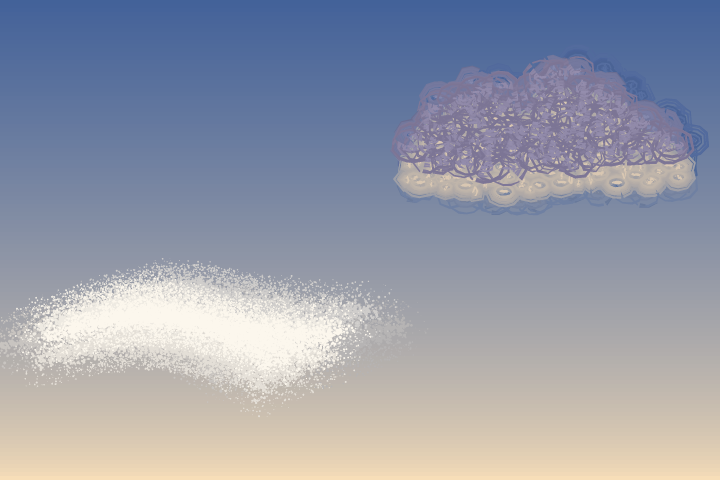
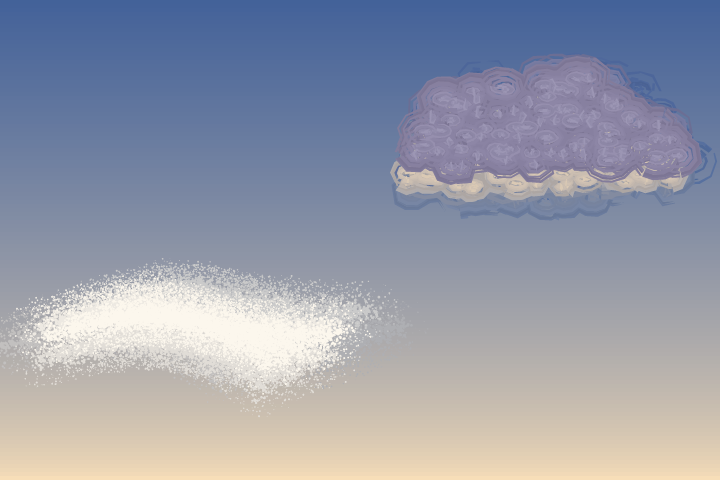
docs: cookbook review fixes: CPU trim, gs recipe, naming, /At at the cloud's middle (#186)

diff --git a/docs/guides/landscape-cookbook.md b/docs/guides/landscape-cookbook.md
@@ -12,14 +12,14 @@ Every snippet is complete and sized for a 360 by 240 pt page. From the repo root
 pscat --page 360x240 --dpi 144 --png out.png recipe.ps
 ```
 
-`--png` (or `--headless`) is required, or pscat opens a window and waits. `--dpi 144` renders at twice the size: fine spray and bristles need it to read as vapour rather than static, and the thumbnails below are made that way (`pscat --page 360x240 --dpi 144`). Then **look at the PNG**. Run it again with `--lint` once it draws, which catches a blank page, an unbalanced `gsave` and stack leaks that a good-looking picture can hide.
+`--png` (or `--headless`) is required, or pscat opens a window and waits. `--dpi 144` renders at twice the size: fine spray and bristles need it to read as vapour rather than static, and the thumbnails below are made that way (`pscat --page 360x240 --dpi 144`). Then **look at the PNG**. Run it again with `--lint` once it draws, which catches a blank page, an unbalanced `gsave` and stack leaks that a good-looking picture can hide. A clean lint does not mean the program ran clean, though: watch stderr for a `%%[ Error: ...` line, because a recipe that died halfway still prints a picture.
 
 The snippets share a few habits. They are worth copying.
 
 - **Seed first**: `N srand` after the library loads. Every mark draws from the random stream, so the same seed paints the same picture and a changed number moves only what comes after it.
 - **Prefix your own names** (`wt_y`, `mt_px`). Paintkit's presets redefine their own `pk-`, `pn-`, `pb-`, `pz-`, `po-`, `pq-`, `pd-` names on every call, and so does artkit, so a scratch name that collides is overwritten in the middle of a painting.
 - **Colours are `r g b` on the stack, `[r g b]` in a dict.** `mix3` (`[a] [b] t mix3` gives `r g b`) and `shade` (`[a] k shade` gives `r g b`) return three numbers, so `setrgbcolor` takes them directly and a `/Colors` entry wraps them: `[ [ c 1.03 shade ] ... ]`. The presets paint in the colour you set; there is no colour key outside `/Colors`.
-- **Stay out of `setalpha`.** Nothing here uses it, so the same file renders under Ghostscript with only its random stream differing.
+- **Stay out of `setalpha`.** Nothing here uses it, so the same snippet renders under Ghostscript, with only its random stream differing and no antialiasing (fine spray comes out heavier). The snippets end without `showpage`, because pscat paints its page at exit, so ask gs for one: `gs -q -dNOSAFER -dBATCH -dNOPAUSE -sDEVICE=png16m -g360x240 -r72 -sOutputFile=out.png recipe.ps -c showpage` (`-dNOSAFER` because the snippet reads `lib/`). All eleven were checked this way.
 
 ## Colour: a palette that mixes like paint
 
@@ -138,7 +138,7 @@ Two kinds. **Vapour** is spray, soft all through; use it for haze and wispy cirr
   } for }
   % /Under is the colour behind the mark: a procedure x y -> r g b, asked
   % where the cloud sits (/At), so the rim matches the graded sky.
-  << /Soft 1 /Offset 30 /At [ cl_x cl_y ] /Under { exch pop skyat } >> pkwet
+  << /Soft 1 /Offset 30 /At [ cl_x cl_w 2 div add  cl_y cl_w 0.08 mul add ] /Under { exch pop skyat } >> pkwet
 } def
 20 70 150 1 vapour
 
@@ -158,7 +158,7 @@ Two kinds. **Vapour** is spray, soft all through; use it for haze and wispy cirr
 /form {                                  % x y w seed -
   srand /fm_w exch def /fm_y exch def /fm_x exch def
   /fm_h fm_w 0.28 mul def
-  /fm_r fm_w 0.03 mul def                % circle radius
+  /fm_r fm_w 0.04 mul def                % circle radius
   /fm_under [ fm_x fm_w 2 div add skyat ] def
   /fm_body [ 0.55 0.52 0.66 ] def  /fm_lit [ 1 0.88 0.72 ] def
   /fm_n fm_w fm_h mul 1.4 mul fm_r dup mul 3.14 mul div cvi def
@@ -275,6 +275,7 @@ grestore
 - A **band** is `pkwet /Soft 0.6` with `/Under` a colour between the range and the sky.
 - A **foot** is a directional `pkwet`: `/Direction 90 /OneSided true /Stretch 8 /Offset 30 /Layers 14 /Under` the range's colour. The wrapped spray is tapped along the foot and lifted up the slope in layers, so the foot dissolves into the haze rising off the lake. Clip to the range's silhouette first so the haze stays inside the range.
 - Keep `/Layers` pinned while tuning: with `/Layers` left to default, a directional `/Offset` also sets the depth and re-rolls everything after it.
+- Expect a granular fringe at 2x. The dense core fuses and the falloff stays granular; that grain is what makes it vapour and not a gradient, and Alpine Lake's mist is the same at its 2x still. Only a coarser speck than 1 pt turns it into static.
 
 **Failures.**
 - *Ruled stripes.* Alpine Lake's first mist was a stack of horizontal `pkbroad` strokes whose charge fell as they rose; at 2x it read as ruled stripes. Use the directional lift.
@@ -413,22 +414,22 @@ LAKE aload pop setrgbcolor -10 -10 380 80 rectfill
 % out and down from it, widening toward the base. Each tier is a real
 % stroke out from the trunk, so /Light can flip the loaded colours.
 /pine {
-  /pn_lit exch def /pn_dark exch def srand
-  /pn_h exch def /pn_y exch def /pn_x exch def
-  pn_dark aload pop setrgbcolor
-  newpath pn_x pn_y moveto pn_x pn_y pn_h add lineto
-  << /Width pn_h 0.03 mul 1 max /Taper 0.95 /Waver 0.3 >> pkliner
-  /pn_n pn_h 12 div cvi 3 max def
-  0 1 pn_n { /pn_k exch def
-    /pn_f pn_k pn_n div def                              % 0 at the top
-    /pn_ty pn_y pn_h add pn_h 0.9 mul pn_f mul sub def
-    /pn_sp pn_h 0.04 mul pn_h 0.34 mul pn_f mul add def  % the tier's reach
-    [ -1 1 ] { /pn_s exch def
-      newpath pn_x pn_ty moveto
-      pn_x pn_sp pn_s mul add  pn_ty pn_sp 0.45 mul sub lineto
-      << /Width pn_h 0.11 mul 3 max /Bristles 12 /Splay 0.8 /Load 0.88
+  /tr_lit exch def /tr_dark exch def srand
+  /tr_h exch def /tr_y exch def /tr_x exch def
+  tr_dark aload pop setrgbcolor
+  newpath tr_x tr_y moveto tr_x tr_y tr_h add lineto
+  << /Width tr_h 0.03 mul 1 max /Taper 0.95 /Waver 0.3 >> pkliner
+  /tr_n tr_h 14 div cvi 3 max def
+  0 1 tr_n { /tr_k exch def
+    /tr_f tr_k tr_n div def                              % 0 at the top
+    /tr_ty tr_y tr_h add tr_h 0.9 mul tr_f mul sub def
+    /tr_sp tr_h 0.04 mul tr_h 0.34 mul tr_f mul add def  % the tier's reach
+    [ -1 1 ] { /tr_s exch def
+      newpath tr_x tr_ty moveto
+      tr_x tr_sp tr_s mul add  tr_ty tr_sp 0.45 mul sub lineto
+      << /Width tr_h 0.11 mul 3 max /Bristles 10 /Splay 0.8 /Load 0.88
          /Dropout 0.12 /Ragged 0.45 /Flick 0.7
-         /Colors [ pn_lit pn_dark pn_dark pn_dark ] /ColorMix 0.15 /Light 150 >> pkfan
+         /Colors [ tr_lit tr_dark tr_dark tr_dark ] /ColorMix 0.15 /Light 150 >> pkfan
     } forall
   } for
 } def
